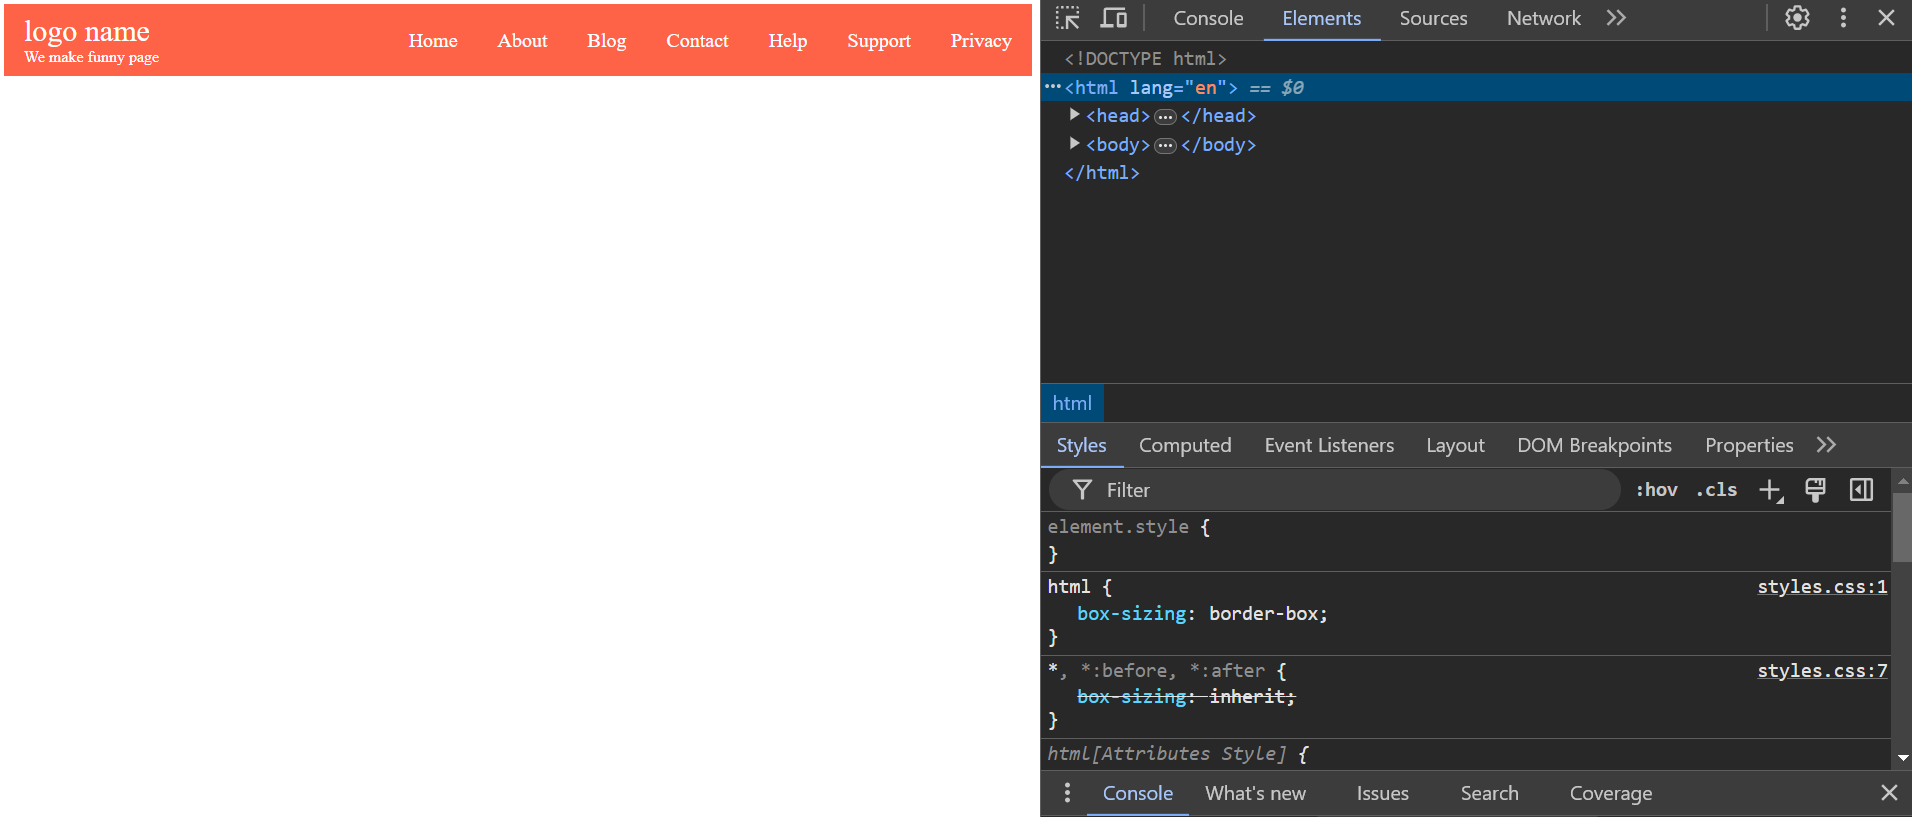
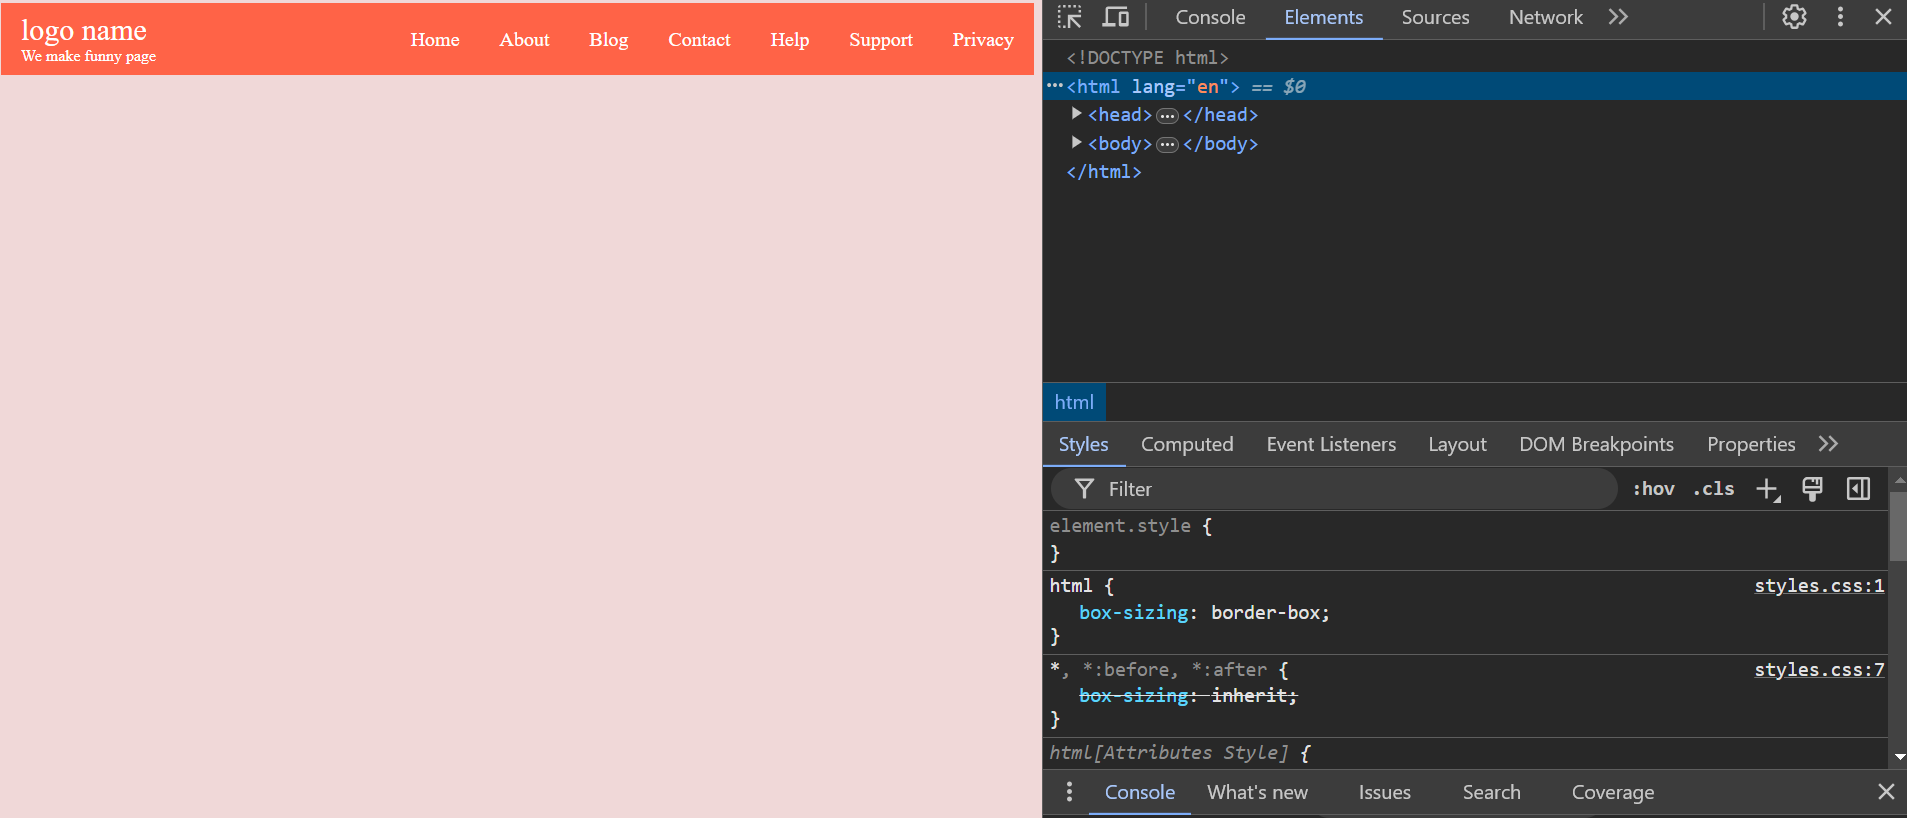
CSS 'Flex-box__02__Menu__' ! version 1.0.0 added demo image 'media' update !

diff --git a/styles.css b/styles.css
@@ -8,6 +8,9 @@
   box-sizing: inherit;
 }
 
+body {
+  background-color: rgb(240, 216, 216)
+}
 nav {
   background-color: tomato;
   color: #fff;
